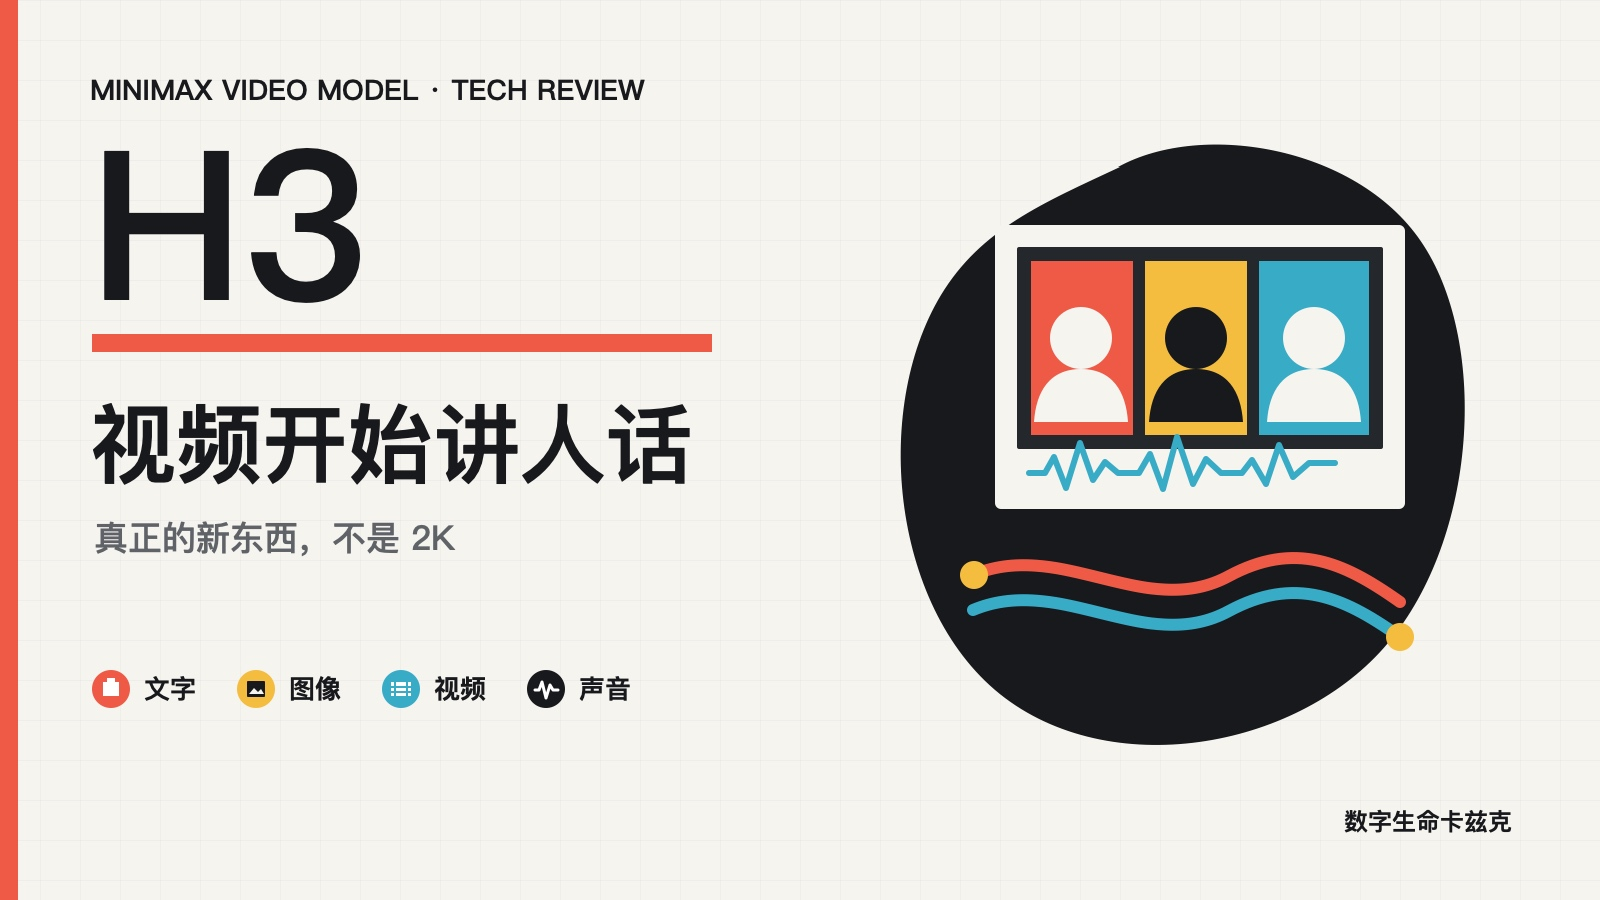
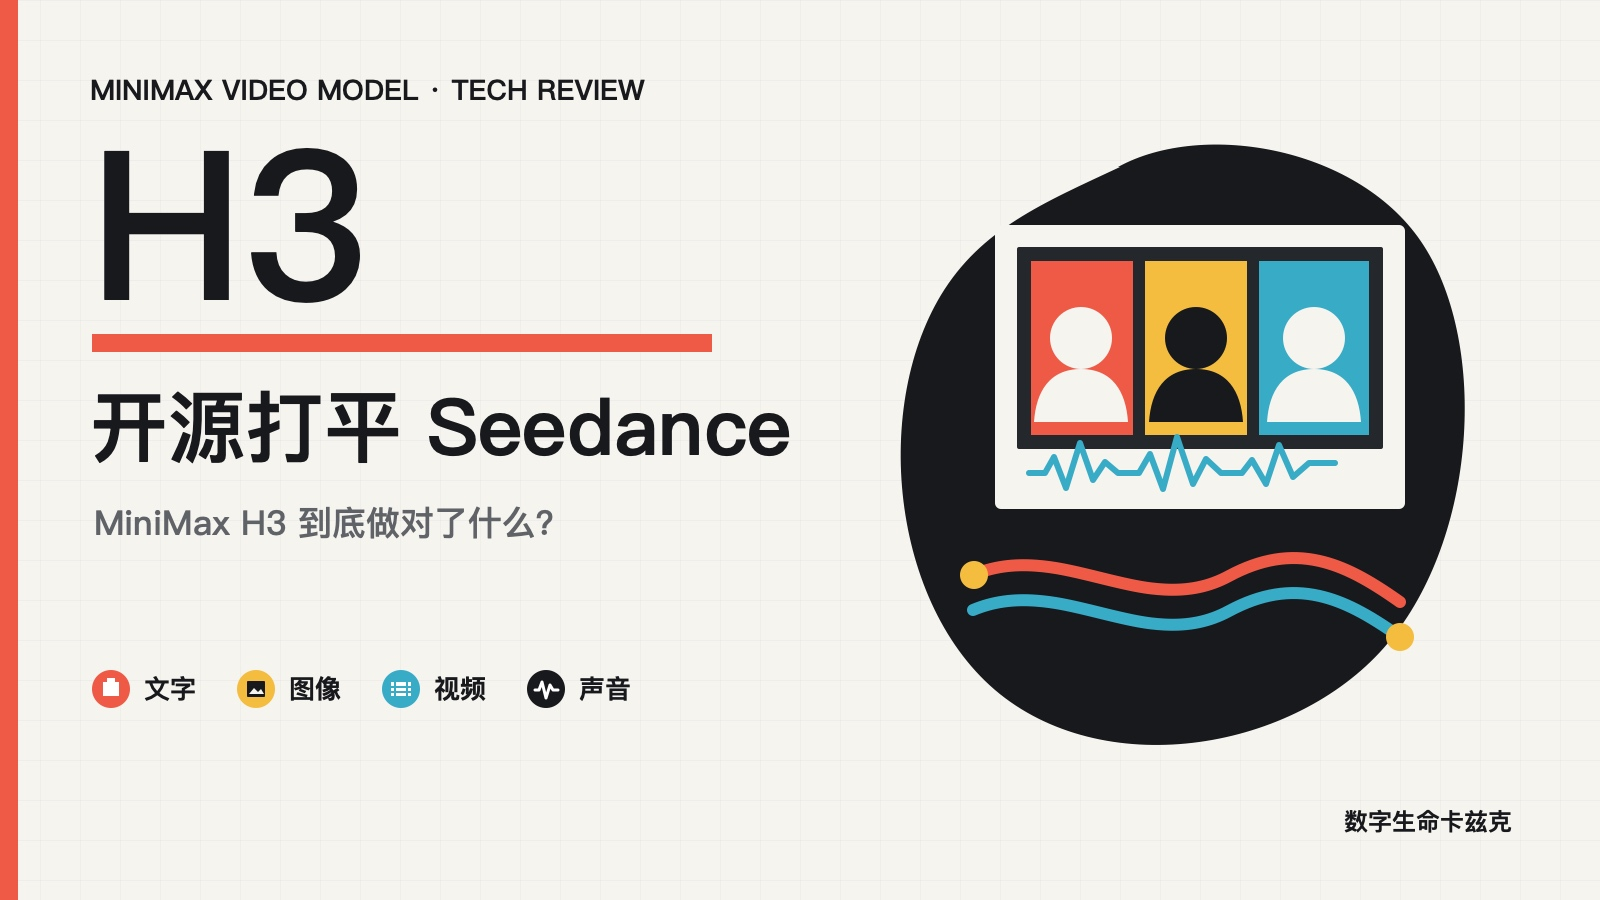
fix: refocus MiniMax H3 article title on Seedance

Changed region(s): [[0.0625, 0.4356, 0.5, 0.6222]]

diff --git a/posts/minimax-h3-deep-dive.md b/posts/minimax-h3-deep-dive.md
@@ -1,4 +1,4 @@
-# MiniMax H3 真正的新东西，不是 2K，而是它开始把视频生成当成一门语言
+# 开源打平 Seedance 2.0，MiniMax H3 到底做对了什么？
 
 > **作者**：卡兹克  
 > **标签**：`MiniMax H3` | `视频生成` | `多模态` | `开源模型` | `AIGC`
